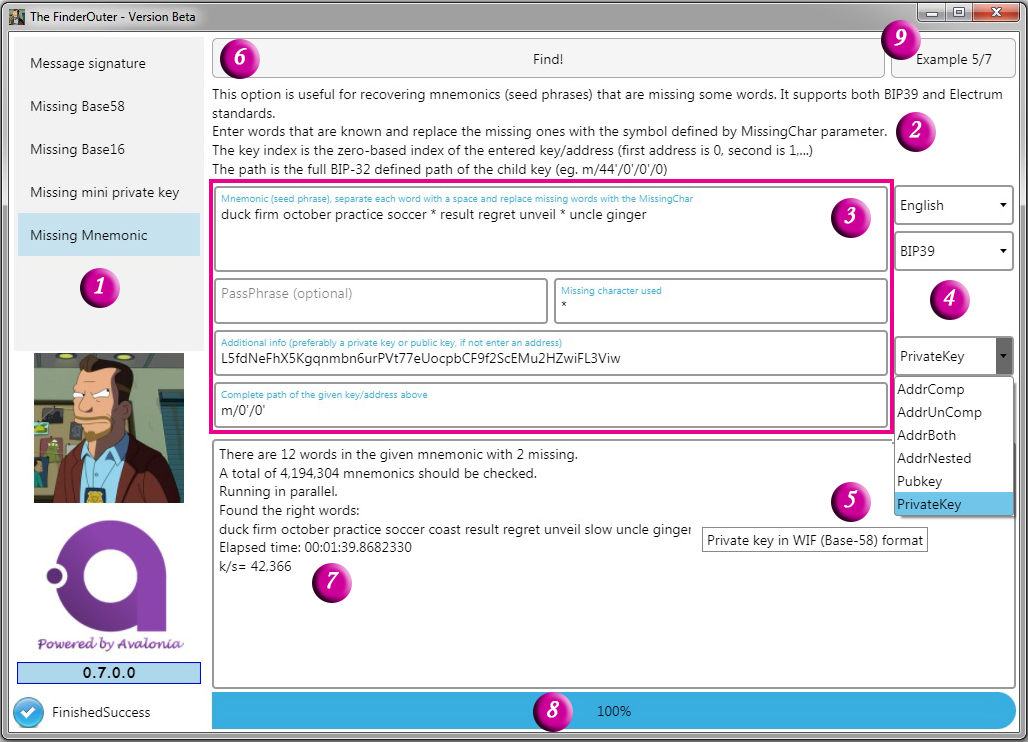
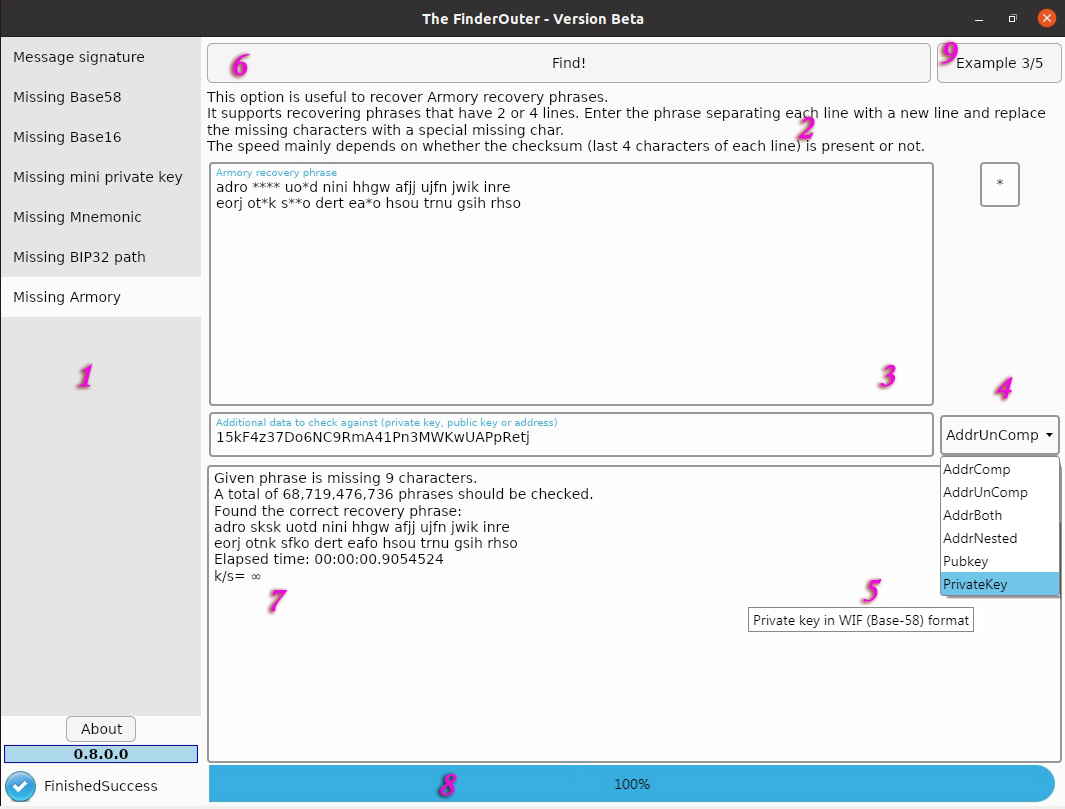
Update readme and preview

diff --git a/README.md b/README.md
@@ -39,8 +39,8 @@ User can enter a message signature here to verify it. In case there is a problem
 actually invalid signature), the code can search to find the common issues that some signing tools have and fix them.
 
 #### 2. Missing Base-58 characters
-This option helps recover any base-58 encoded string with a checksum that is missing some characters. For example a damaged 
-paper wallet where some characters are erased/unreadable. The position of missing characters must be known.  
+This option can be used to recover any base-58 encoded string with a checksum that is missing some characters. For example 
+a damaged paper wallet where some characters are erased/unreadable. The position of missing characters must be known.  
 It works for (1) [WIFs](https://en.bitcoin.it/wiki/Wallet_import_format) (Base-58 encoded private key) 
 (2) [Addresses](https://en.bitcoin.it/wiki/Address) (Base-58 encoded P2PKH or P2SH address) 
 (3) [BIP-38](https://github.com/bitcoin/bips/blob/master/bip-0038.mediawiki) (Base-58 encoded encrypted private key).  
@@ -62,11 +62,20 @@ This option works for both [BIP-39](https://github.com/bitcoin/bips/blob/master/
 that have some missing words. It requires knowing one child (private/public) key or address created from that seed and the 
 exact derivation path of it.
 
+#### 6. Missing BIP-32 derivation path
+This option could be used to find derivation path of a child key (private key, public key or the address) by having the mnemonic
+or the extended master keys (xprv or xpub). It only checks a hard-coded list of popular derivation paths.
+
+#### 7. Missing characters in Armory recovery phrase
+This option is used to recover Armory paper backups (containing 2 or 4 lines of 36 characters in Base-16 with custom char-set)
+that are missing some of their characters. Since the last 4 characters of each line is the checksum this option can be very fast
+(1 trillion keys/sec) if the checksum is available or extremely slow (100 key/sec) if not.
+
 ## Future plans
 * Optimization is always at the top of the to-do list
-* BIP-32 path finder (user has master key and at least one child key but doesn't know the derivation path)
-* Armory paper backup recovery
+* BIP-39 passphrase (extention words) recovery
 * Password recovery (user knows some parts of his password but not all and has the encrypted wallet file)
+* BIP-38 password recovery
 * Converting versioned WIFs to regular WIFs (BIP-178 and early vertion 3 Electrum wallets)
 
 ## How to use The FinderOuter
